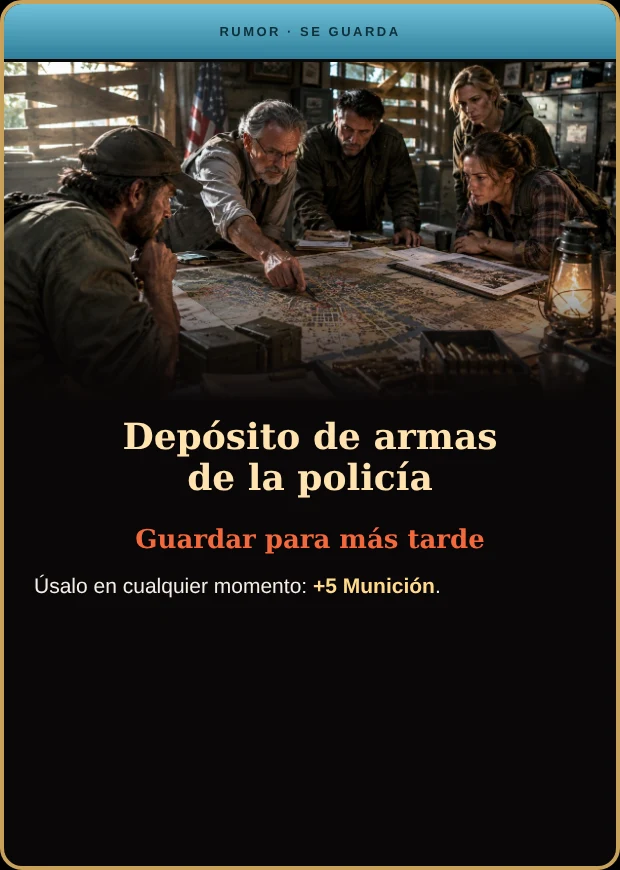
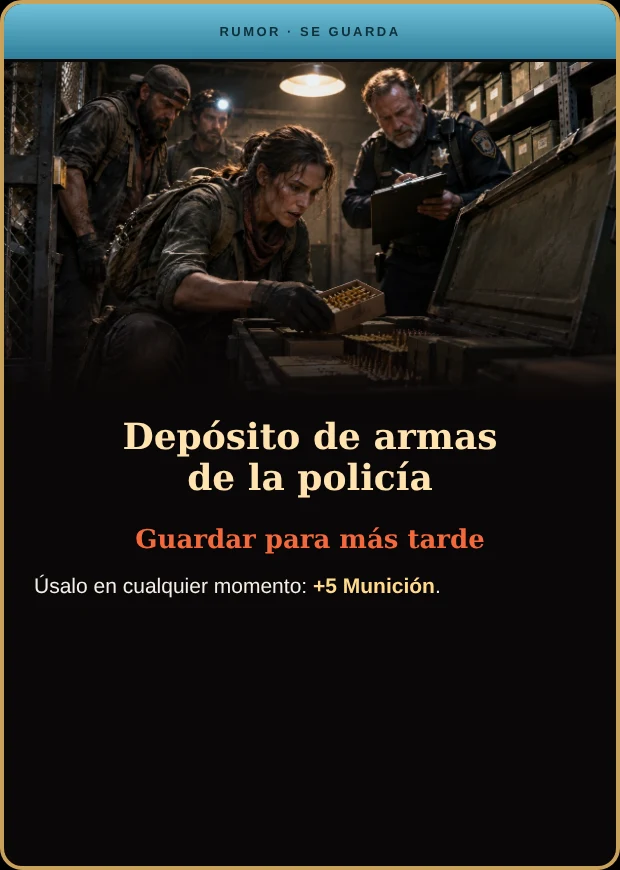
Rumor «Depósito de armas»: nueva ilustración en arte alternativo
Claude-Session: https://claude.ai/code/session_01KmRiLcc1AzF5nwKKYZBJED

Changed region(s): [[0.0, 0.0621, 1.0, 0.4345]]

diff --git a/sw.js b/sw.js
@@ -1,7 +1,7 @@
 /* Service worker: permite instalar la web como app y jugar sin conexión.
    Código (html/js/css): red primero, con copia local de reserva. Imágenes y audio: caché primero. */
 'use strict';
-const CACHE = 'doz3-v97';
+const CACHE = 'doz3-v98';
 const SHELL = ['./', 'index.html', 'style.css', 'manifest.webmanifest', 'icons/icon-192.png', 'icons/icon-512.png', 'assets/portada.jpg', 'assets/fondo_nueva.webp', 'assets/fondo_ranking.webp',
   'js/version.js', 'js/data.js', 'js/events.js', 'js/dest.js', 'js/evlog.js', 'js/preview.js', 'js/obituario.js', 'js/engine.js', 'js/game.js', 'js/phases.js', 'js/actions.js', 'js/cardtext.js', 'js/ui.js', 'js/anim.js',
   'js/expansions.js', 'js/expansions2.js', 'js/sfx.js', 'js/sound.js', 'js/opciones.js', 'js/voz.js', 'js/ost.js', 'assets/sonidos/letras/letras.js', 'assets/sonidos/efectos/sfx_disparo.mp3', 'assets/sonidos/efectos/sfx_disparo_largo.mp3', 'js/mapzoom.js', 'js/movil.js', 'js/seedcode.js', 'js/save.js', 'js/main.js', 'js/bot.js'];

diff --git a/js/version.js b/js/version.js
@@ -1,2 +1,2 @@
 /* Fecha y hora de la última build (hora de Madrid). Se actualiza con cada cambio publicado. */
-const BUILD_TIME = '2026-11-06 13:30';
+const BUILD_TIME = '2026-11-06 13:50';

diff --git a/CHANGELOG.md b/CHANGELOG.md
@@ -2,6 +2,11 @@
 
 Registro de cambios por publicación (push a `main`). Lo más reciente, arriba. Cada entrada lleva la misma fecha y hora que `BUILD_TIME` de `js/version.js`.
 
+## 2026-11-06 13:50
+
+### Cambios
+- **Rumor «Depósito de armas de la policía»:** nueva ilustración en la carta de arte alternativo.
+
 ## 2026-11-06 13:30
 
 ### Nuevo
